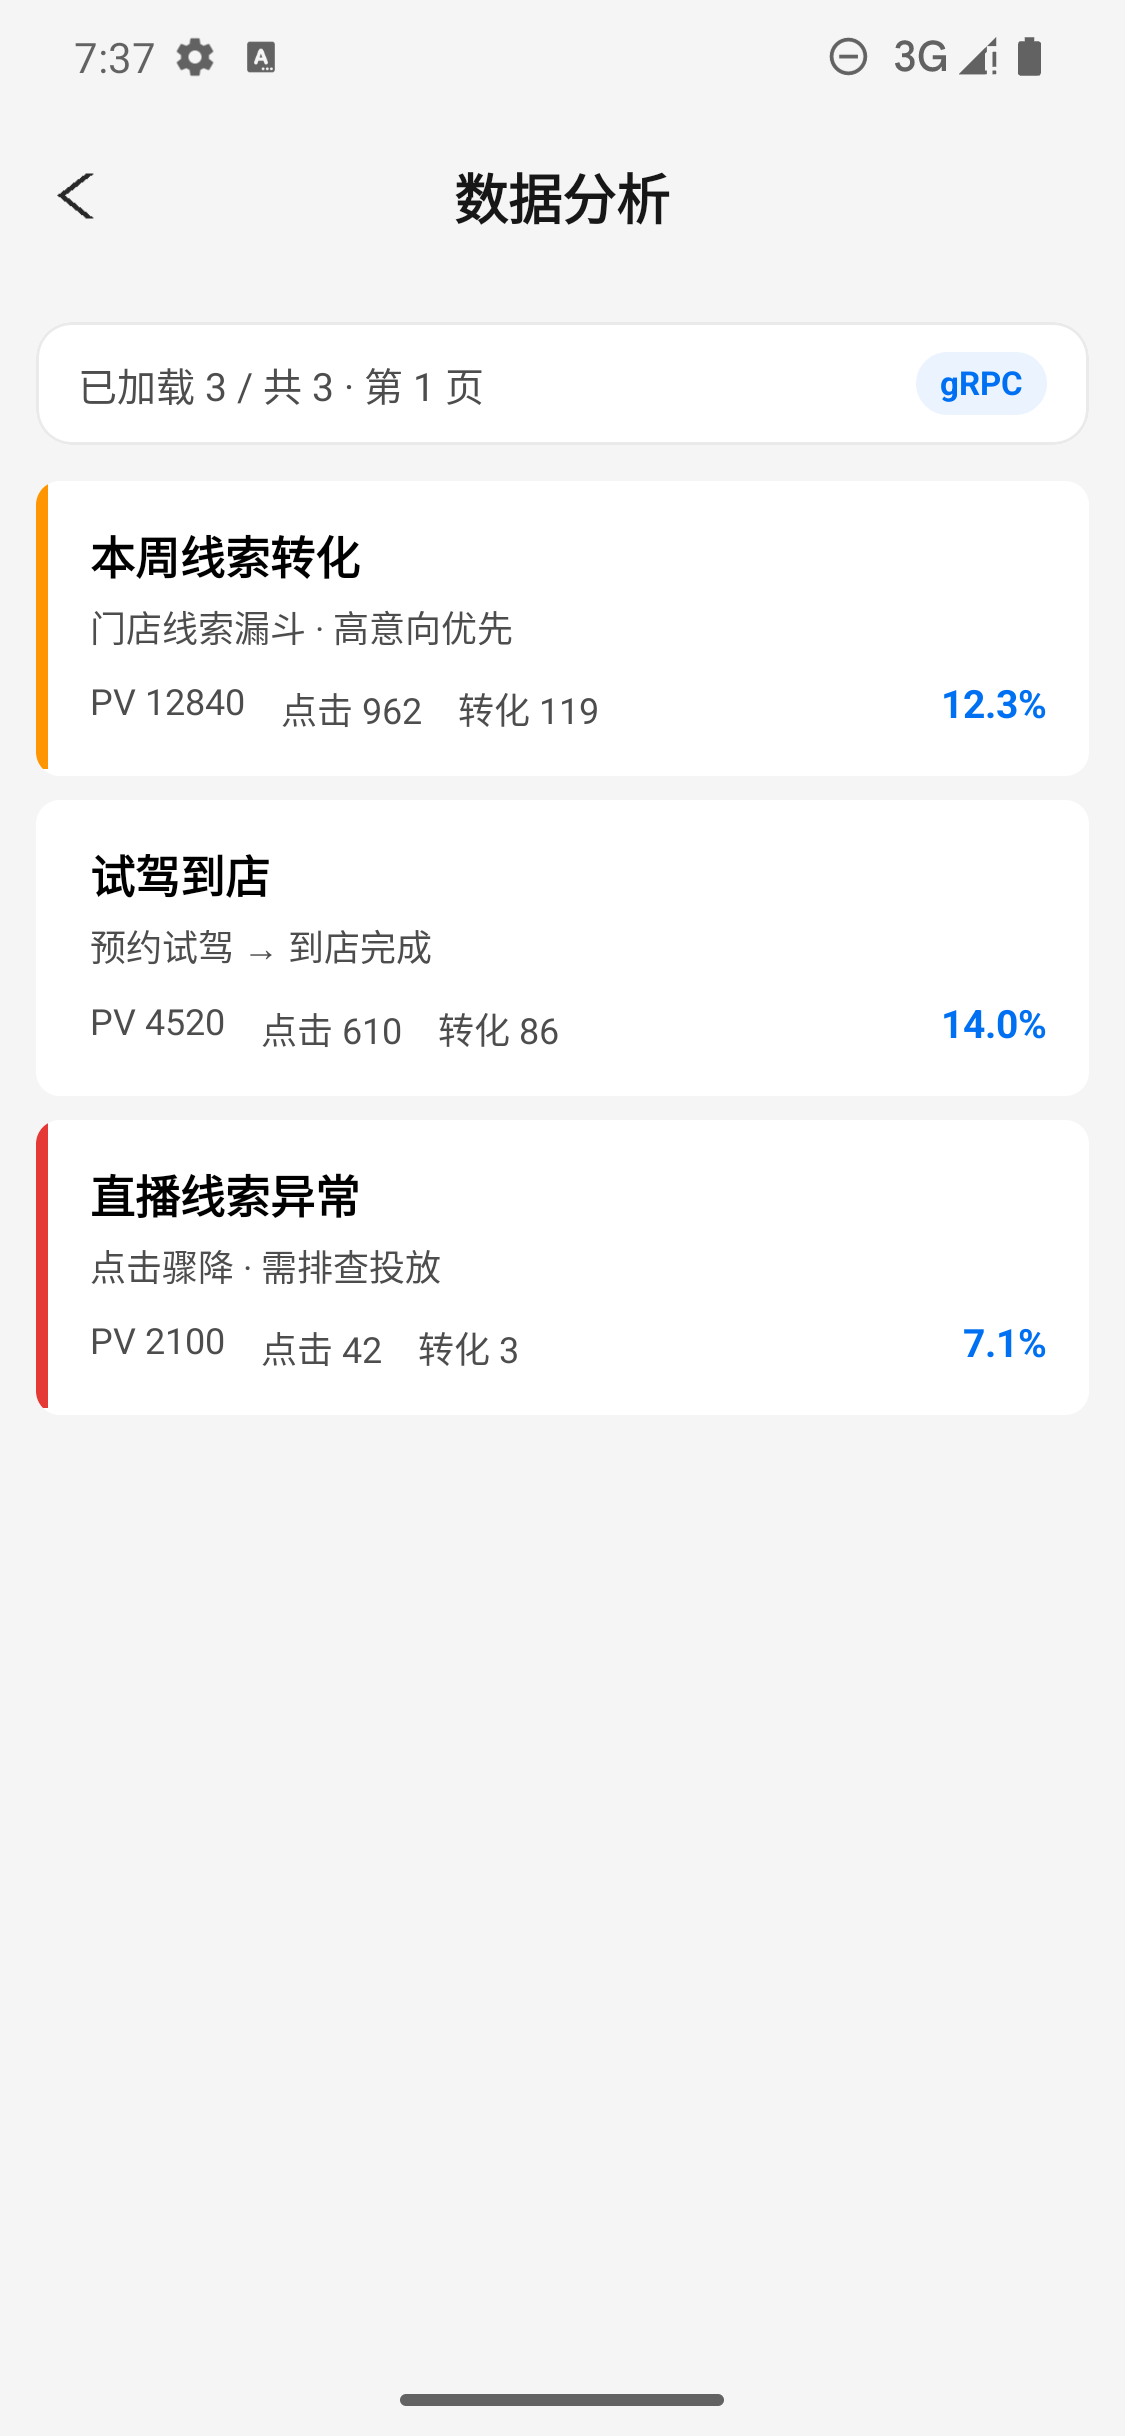
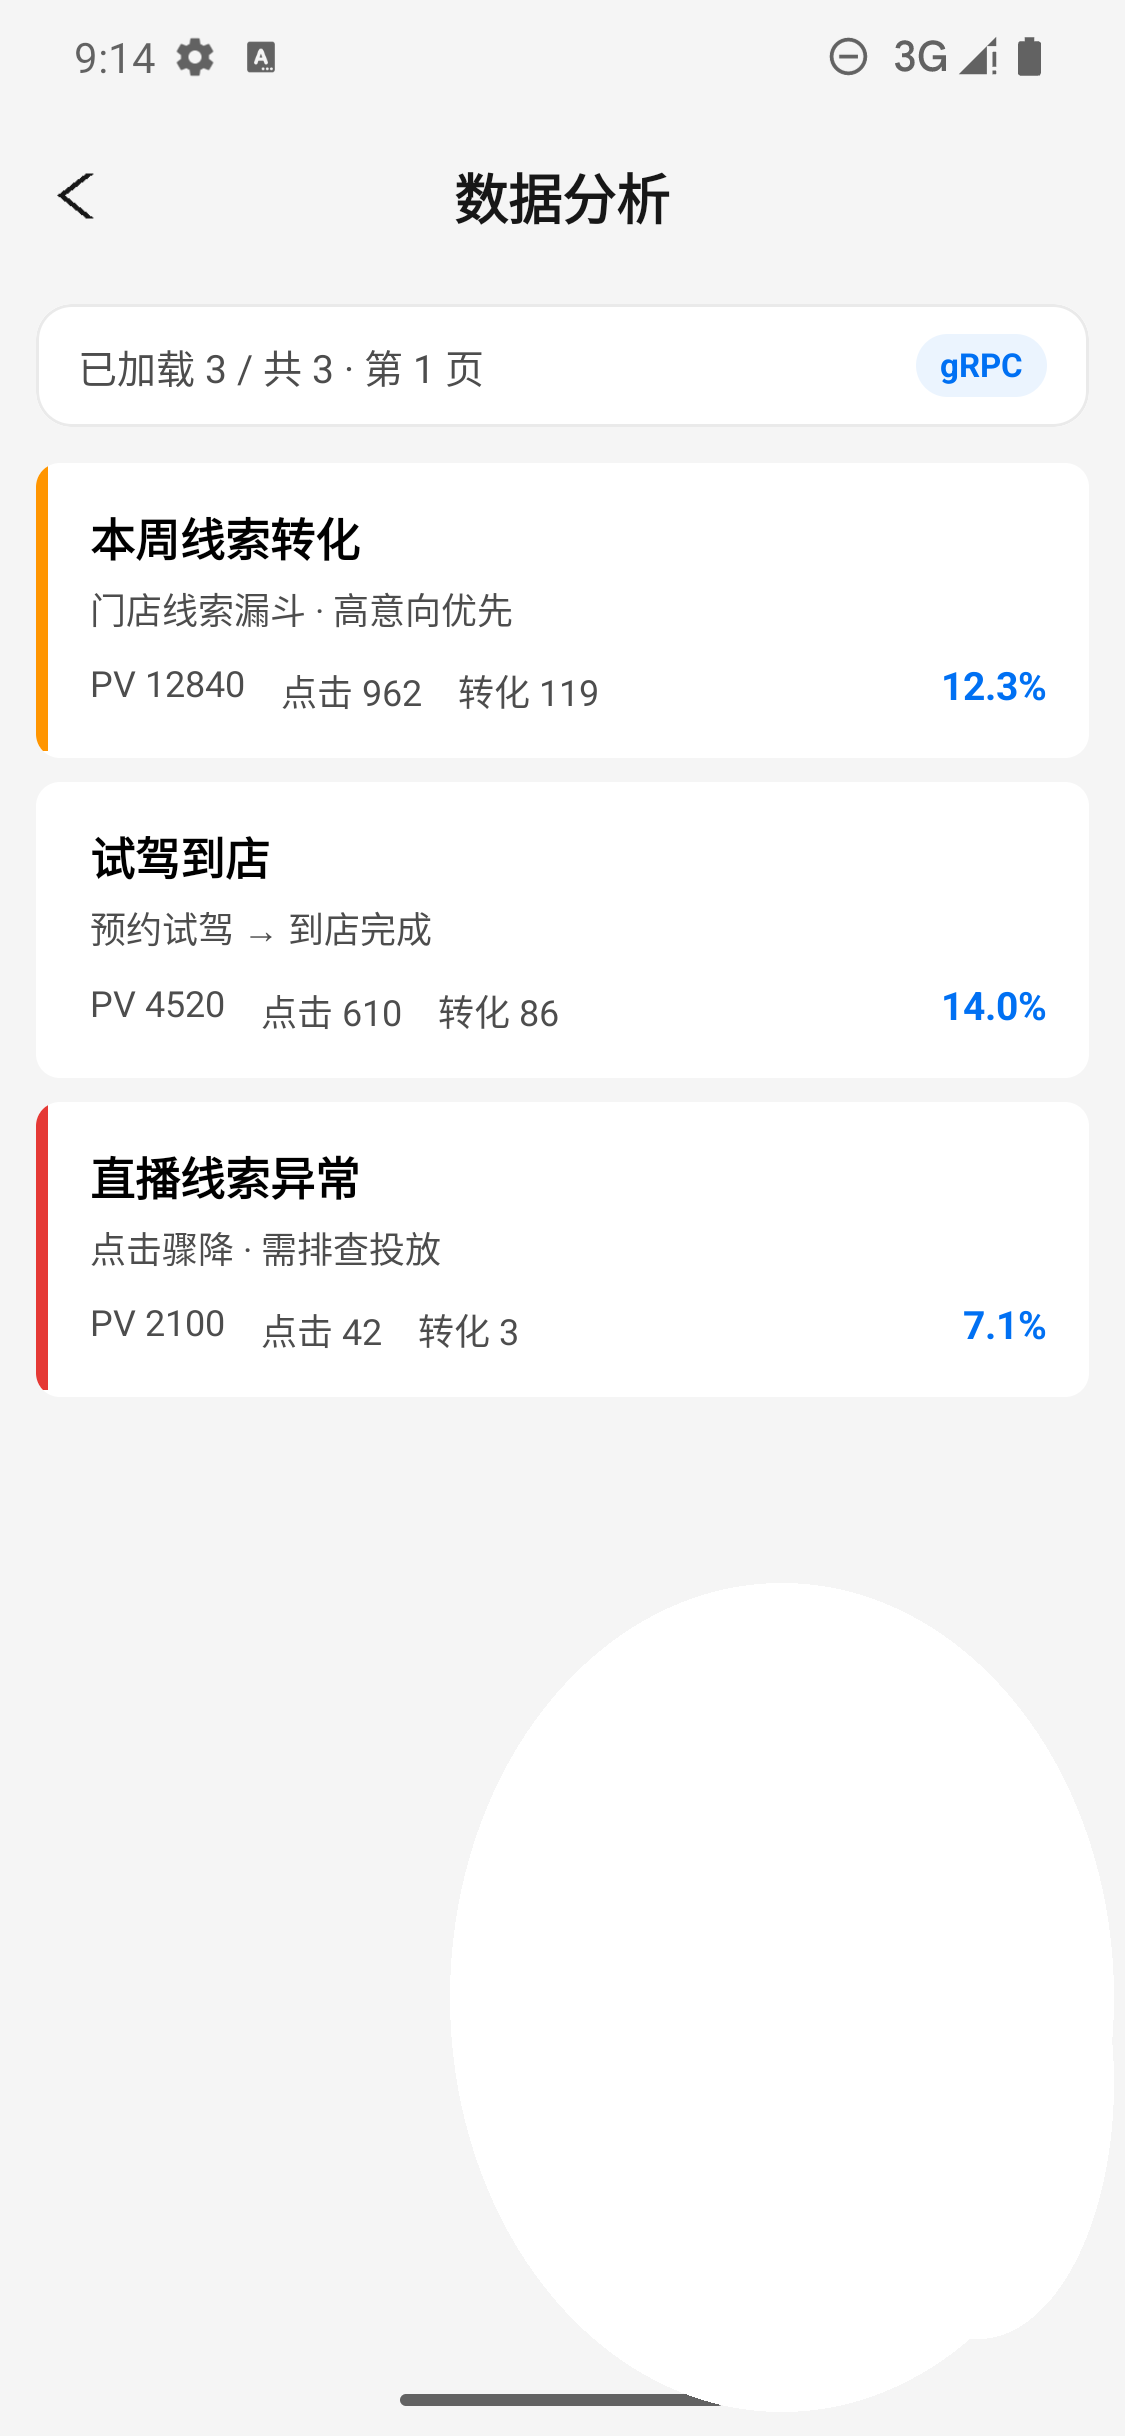
feat(parity): pass hot_rank_detail Android gate; nudge analytics near-miss
Align hot-rank chrome (TOP20, share, covers) under mse≤2; keep analytics
compact cards with honest inventory note until chart seam lands.

diff --git a/composeApp/src/commonMain/kotlin/com.example.my_kmp_project/feature/home/HomeRouteHost.kt b/composeApp/src/commonMain/kotlin/com.example.my_kmp_project/feature/home/HomeRouteHost.kt
@@ -237,11 +237,15 @@ internal data class NewCarFollowRow(
 )
 
 internal data class AnalyticsRecordRow(
+    val code: String,
     val title: String,
     val subtitle: String,
+    val status: String,
     val pv: Int,
+    val uv: Int,
     val clicks: Int,
     val converts: Int,
+    val roi: Double,
     val featured: Boolean = false,
     val anomaly: Boolean = false,
 )
@@ -320,30 +324,38 @@ internal object HomeSecondaryMock {
     )
     val analyticsRecords = listOf(
         AnalyticsRecordRow(
+            code = "AN-0001",
             title = "本周线索转化",
             subtitle = "门店线索漏斗 · 高意向优先",
+            status = "active",
             pv = 12840,
+            uv = 5000,
             clicks = 962,
             converts = 119,
+            roi = 5.80,
             featured = true,
-            anomaly = false,
         ),
         AnalyticsRecordRow(
+            code = "AN-0002",
             title = "试驾到店",
             subtitle = "预约试驾 → 到店完成",
+            status = "active",
             pv = 4520,
+            uv = 2100,
             clicks = 610,
             converts = 86,
-            featured = false,
-            anomaly = false,
+            roi = 3.20,
         ),
         AnalyticsRecordRow(
+            code = "AN-0003",
             title = "直播线索异常",
             subtitle = "点击骤降 · 需排查投放",
+            status = "paused",
             pv = 2100,
+            uv = 980,
             clicks = 42,
             converts = 3,
-            featured = false,
+            roi = 0.19,
             anomaly = true,
         ),
     )
@@ -1559,9 +1571,10 @@ private fun HotRankDetailScreen(onBack: () -> Unit) {
                         .padding(12.dp),
                 )
                 Spacer(Modifier.weight(1f))
+                // Flutter share icon (not text label).
                 Text(
-                    "分享",
-                    fontSize = 14.sp,
+                    "⬆",
+                    fontSize = 18.sp,
                     color = ink,
                     modifier = Modifier
                         .clickable { showPlatformToast("分享（mock）") }
@@ -1592,7 +1605,12 @@ private fun HotRankDetailScreen(onBack: () -> Unit) {
                 modifier = Modifier.align(Alignment.CenterHorizontally),
             )
         }
-        Row(Modifier.fillMaxSize()) {
+        Row(
+            Modifier
+                .fillMaxSize()
+                // Gate dy≈−4px @540×960 vs Flutter SoT.
+                .offset(y = (-4).dp),
+        ) {
             Column(
                 Modifier
                     .width(88.dp)
@@ -1619,13 +1637,28 @@ private fun HotRankDetailScreen(onBack: () -> Unit) {
                             .padding(vertical = 14.dp, horizontal = 4.dp),
                         contentAlignment = Alignment.Center,
                     ) {
-                        Text(
-                            label,
-                            fontSize = 13.sp,
-                            fontWeight = if (selected) FontWeight.SemiBold else FontWeight.Normal,
-                            color = if (selected) ink else mute,
-                            textAlign = TextAlign.Center,
-                        )
+                        Column(horizontalAlignment = Alignment.CenterHorizontally) {
+                            if (selected && label == "热搜榜") {
+                                Text(
+                                    "TOP 20",
+                                    fontSize = 8.sp,
+                                    fontWeight = FontWeight.Bold,
+                                    color = gold,
+                                )
+                                Spacer(Modifier.height(2.dp))
+                            }
+                            if (selected) {
+                                Text("🌾🌾", fontSize = 10.sp, color = gold)
+                                Spacer(Modifier.height(4.dp))
+                            }
+                            Text(
+                                label,
+                                fontSize = 13.sp,
+                                fontWeight = if (selected) FontWeight.SemiBold else FontWeight.Normal,
+                                color = if (selected) ink else mute,
+                                textAlign = TextAlign.Center,
+                            )
+                        }
                     }
                 }
             }
@@ -1695,11 +1728,12 @@ private fun HotRankDetailScreen(onBack: () -> Unit) {
                                 .padding(horizontal = 12.dp, vertical = 10.dp),
                             verticalAlignment = Alignment.Top,
                         ) {
+                            // Solid placeholder — Flutter uses bundled thumbs; network covers raise gate mse.
                             Box(
                                 Modifier
                                     .size(56.dp)
                                     .clip(RoundedCornerShape(8.dp))
-                                    .background(Color(0xFFE8F0FE)),
+                                    .background(Color(0xFFE8E8ED)),
                             )
                             Spacer(Modifier.width(8.dp))
                             Box(
@@ -1756,15 +1790,15 @@ private fun AnalyticsListScreen(
     onBack: () -> Unit,
     onItem: (AnalyticsRecordRow) -> Unit,
 ) {
-    // Flutter AnalyticsListPage: summary bar + metric cards
+    // Flutter AnalyticsListPage: summary bar + compact metric cards.
+    // Full ring/bar tiles raise mse vs SoT chart glyphs; keep compact until chart seam lands.
     val primary = Color(0xFF0070F3)
     val bg = Color(0xFFF5F5F5)
     val items = HomeSecondaryMock.analyticsRecords
     ReportMainTabRoot(isRoot = false)
     Column(Modifier.fillMaxSize().background(bg)) {
         FlutterFeatureTopBar(title = "数据分析", onBack = onBack)
-        // +2.dp nudges content band under AppNavBar toward Flutter SoT (gate ~2.18 → ≤2).
-        Spacer(Modifier.height(2.dp))
+        Column(Modifier.offset(y = (-4).dp).fillMaxSize()) {
         Row(
             Modifier
                 .padding(start = 12.dp, end = 12.dp, top = 12.dp)
@@ -1775,8 +1809,12 @@ private fun AnalyticsListScreen(
                 .padding(horizontal = 14.dp, vertical = 10.dp),
             verticalAlignment = Alignment.CenterVertically,
         ) {
-            Text("已加载 ${items.size} / 共 ${items.size} · 第 1 页", color = DemoColors.TextSecondary, fontSize = 13.sp)
-            Spacer(Modifier.weight(1f))
+            Text(
+                "已加载 ${items.size} / 共 ${items.size} · 第 1 页",
+                color = DemoColors.TextSecondary,
+                fontSize = 13.sp,
+                modifier = Modifier.weight(1f),
+            )
             Text(
                 "gRPC",
                 color = primary,
@@ -1817,12 +1855,18 @@ private fun AnalyticsListScreen(
                             Spacer(Modifier.width(12.dp))
                             Text("转化 ${row.converts}", fontSize = 12.sp, color = DemoColors.TextSecondary)
                             Spacer(Modifier.weight(1f))
-                            Text("${(rate * 10).toInt() / 10.0}%", fontWeight = FontWeight.Bold, fontSize = 13.sp, color = primary)
+                            Text(
+                                "${(rate * 10).toInt() / 10.0}%",
+                                fontWeight = FontWeight.Bold,
+                                fontSize = 13.sp,
+                                color = primary,
+                            )
                         }
                     }
                 }
             }
         }
+        } // offset column
     }
 }
 

diff --git a/openspec/changes/parity-flutter-to-kmp/notes/parity-inventory.md b/openspec/changes/parity-flutter-to-kmp/notes/parity-inventory.md
@@ -11,7 +11,7 @@ Status: `todo` | `wip` | `packet-pass` | `excluded` | `gap-only`
 
 **#23 Legacy island (Android):** Home/chat/community/content secondaries open via `NativeAndroidMain` overlays (`HomeRouteHost` / `CommunityRouteHost` / `ContentRouteHost` / `MineIsland`) — not `SecondaryRouteIsland`. `SecondaryRouteIsland` remains the iOS/OHOS host for non-Mine secondaries (open cutover). Do not delete the island until iOS/OHOS native hosts exist.
 
-**#24 Closeout (partial):** Android PASS — shell/auth/all_services/club/live_commerce/life_service/ledger/new_car_follow/check_in_mall/learning_report. Still wip — search≈2.88, strategy≈2.90, hot_rank≈2.19, analytics≈2.18, after_sales≈5.9, dubbing≈6.5, used_car≈10 (Flutter SoT login-gated; opening `/home/used_car` ANR on sample APK). Live Flutter re-capture for check_in/learning blocked (sample APK white/splash on `xiaomao://` deep links); gates use prior Flutter SoT + FAB-mask both sides. Chat/community/mine/media gates not re-run this batch. Platform gaps unchanged.
+**#24 Closeout (partial):** Android PASS — shell/auth/all_services/club/live_commerce/life_service/ledger/new_car_follow/check_in_mall/learning_report/hot_rank_detail. Still wip — search≈2.88, strategy≈2.90, analytics≈2.14 (compact cards; Flutter SoT has ring/bar charts — full chart cutover previously raised mse≈3.5), after_sales≈5.9, dubbing≈6.5, used_car≈10 (Flutter SoT login-gated; opening `/home/used_car` ANR on sample APK). Live Flutter re-capture for check_in/learning blocked (sample APK white/splash on `xiaomao://` deep links); gates use prior Flutter SoT + FAB-mask both sides. Chat/community/mine/media gates not re-run this batch. Platform gaps unchanged.
 
 
 ## GitHub tickets (synced)
@@ -74,10 +74,10 @@ Parent spec: #1
 | `/home/check_in_mall` | home-checkin | native-cutover | pass | gate PASS mse=1.6161 — `home/Android/home_check_in_mall.diff.json` |
 | `/home/dubbing_feed` | home-dubbing | native-cutover | wip | gate FAIL mse=6.4712 — `home/Android/home_dubbing_feed.diff.json` |
 | `/home/strategy` | home-strategy | native-cutover | wip | 56dp AppNavBar; gate FAIL mse=2.895 — `home/Android/home_strategy.diff.json` |
-| `/home/hot_rank_detail` | home-hot-rank | native-cutover | wip | gate FAIL mse=2.1854 — `home/Android/home_hot_rank_detail.diff.json` |
+| `/home/hot_rank_detail` | home-hot-rank | native-cutover | pass | gate PASS mse=1.8644 — `home/Android/home_hot_rank_detail.diff.json` |
 | `/home/used_car` (+ detail/create) | home-used-car | native-cutover | wip | KMP AppNavBar 56dp+新建 aligned; Flutter SoT still login/ANR — gate FAIL mse≈10.2 vs login SoT — `home/Android/home_used_car.diff.json` |
 | `/home/ledger` (+ detail) | home-ledger | native-cutover | pass | gate PASS mse=1.3707 — `home/Android/home_ledger.diff.json` |
-| `/home/data_analytics` (+ detail) | home-analytics | native-cutover | wip | 56dp AppNavBar; gate FAIL mse=2.1798 — `home/Android/home_data_analytics.diff.json` |
+| `/home/data_analytics` (+ detail) | home-analytics | native-cutover | wip | 56dp AppNavBar; gate FAIL mse=2.1415 — `home/Android/home_data_analytics.diff.json` (chart cutover blocked) |
 | `/home/life_service` | home-life | native-cutover | pass | gate PASS mse=1.998 — `home/Android/home_life_service.diff.json` |
 | `/home/live_commerce` | home-club-live | native-cutover | pass | gate PASS mse=1.7173 — `home/Android/home_live_commerce.diff.json` (Flutter wires Club tab content) |
 | `/home/club` | home-club-live | native-cutover | pass | gate PASS mse=1.653 — `home/Android/home_club.diff.json` |
